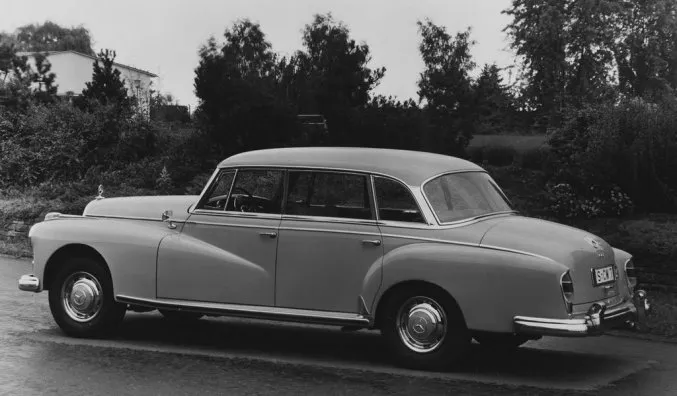
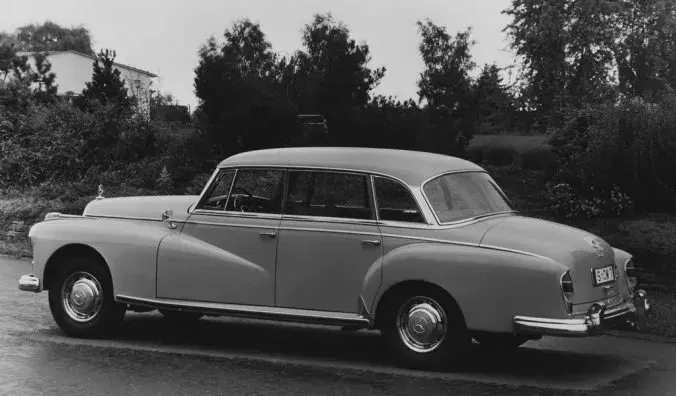
246

diff --git a/pic/ja_mb_img_l.html b/pic/ja_mb_img_l.html
@@ -376,7 +376,7 @@
 						<h4 class="displayNone">W189</h4>
 						<a href="full/l/w189.jpg"><img loading="lazy" src="style/l/w189.webp" alt="メルセデス,W189" width="800" height="557"></a>
 						<a href="full/l/w189_f.jpg"><img loading="lazy" src="style/l/w189_f.webp" alt="メルセデス,W189,フロント" width="405" height="270"></a><br>
-						<a href="full/l/w189_r.jpg"><img loading="lazy" src="style/l/w189_r.webp" alt="メルセデス,W189,リヤ" width="677" height="396"></a>
+						<a href="full/l/w189_r.jpg"><img loading="lazy" src="style/l/w189_r.webp" alt="メルセデス,W189,リヤ" width="676" height="396"></a>
 						<a href="full/l/w189_i.jpg"><img loading="lazy" src="style/l/w189_i.webp" alt="メルセデス,W189,内装" width="529" height="396"></a>
 						<h5>ボディサイズ</h5>
 						<a href="full/l/w189_a.jpg"><img loading="lazy" src="style/l/w189_a.webp" alt="メルセデス,W189,寸法" width="800" height="571"></a>

diff --git a/pic/mb_img_l.html b/pic/mb_img_l.html
@@ -376,7 +376,7 @@
 						<h4 class="displayNone">W189</h4>
 						<a href="full/l/w189.jpg"><img loading="lazy" src="style/l/w189.webp" alt="Mercedes,W189" width="800" height="557"></a>
 						<a href="full/l/w189_f.jpg"><img loading="lazy" src="style/l/w189_f.webp" alt="Mercedes,W189,Frontansicht" width="405" height="270"></a><br>
-						<a href="full/l/w189_r.jpg"><img loading="lazy" src="style/l/w189_r.webp" alt="Mercedes,W189,Rückansicht" width="677" height="396"></a>
+						<a href="full/l/w189_r.jpg"><img loading="lazy" src="style/l/w189_r.webp" alt="Mercedes,W189,Rückansicht" width="676" height="396"></a>
 						<a href="full/l/w189_i.jpg"><img loading="lazy" src="style/l/w189_i.webp" alt="Mercedes,W189,Innenansicht" width="529" height="396"></a>
 						<h5>Abmessungen</h5>
 						<a href="full/l/w189_a.jpg"><img loading="lazy" src="style/l/w189_a.webp" alt="Mercedes,W189,Maße" width="800" height="571"></a>

diff --git a/pic/en_mb_img_l.html b/pic/en_mb_img_l.html
@@ -376,7 +376,7 @@
 						<h4 class="displayNone">W189</h4>
 						<a href="full/l/w189.jpg"><img loading="lazy" src="style/l/w189.webp" alt="Mercedes,W189" width="800" height="557"></a>
 						<a href="full/l/w189_f.jpg"><img loading="lazy" src="style/l/w189_f.webp" alt="Mercedes,W189,Front view" width="405" height="270"></a><br>
-						<a href="full/l/w189_r.jpg"><img loading="lazy" src="style/l/w189_r.webp" alt="Mercedes,W189,Rear view" width="677" height="396"></a>
+						<a href="full/l/w189_r.jpg"><img loading="lazy" src="style/l/w189_r.webp" alt="Mercedes,W189,Rear view" width="676" height="396"></a>
 						<a href="full/l/w189_i.jpg"><img loading="lazy" src="style/l/w189_i.webp" alt="Mercedes,W189,Interior" width="529" height="396"></a>
 						<h5>Dimensions</h5>
 						<a href="full/l/w189_a.jpg"><img loading="lazy" src="style/l/w189_a.webp" alt="Mercedes,W189,Dimensions" width="800" height="571"></a>
